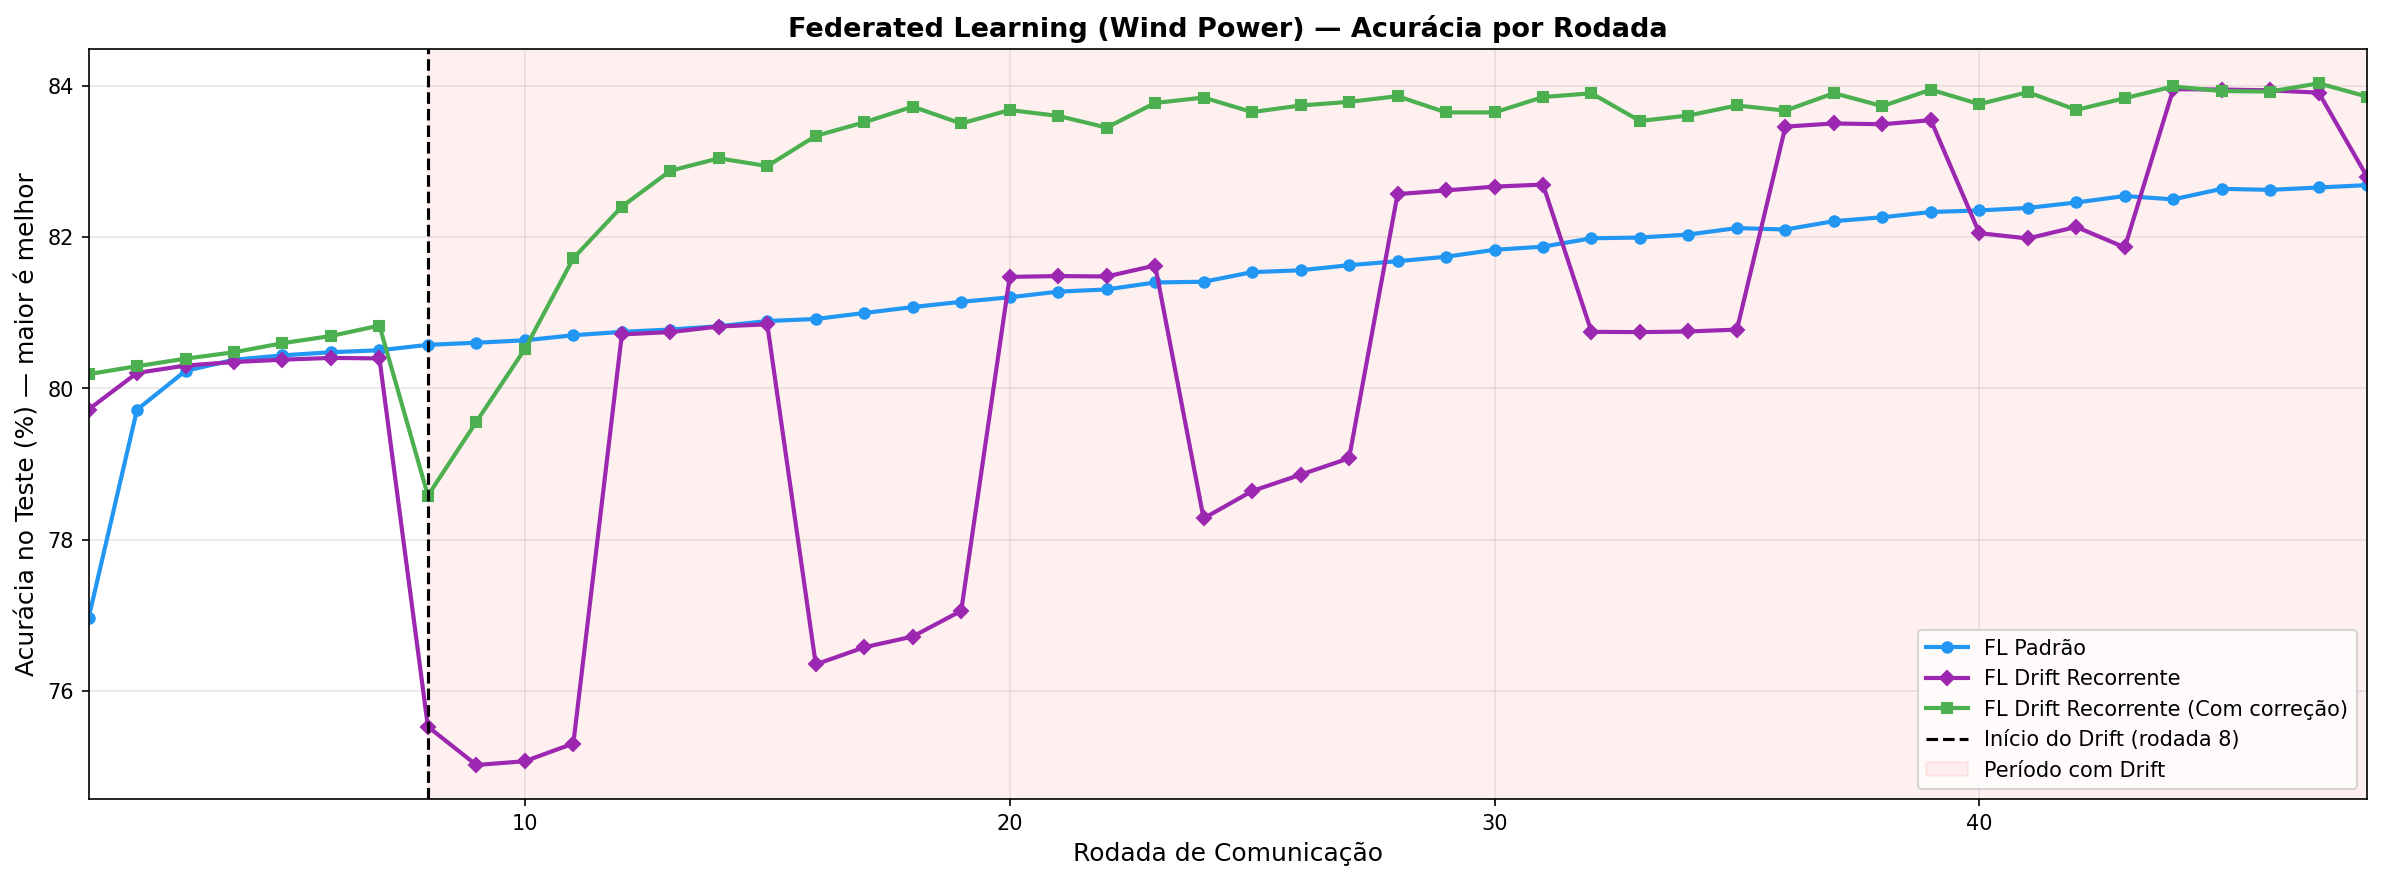
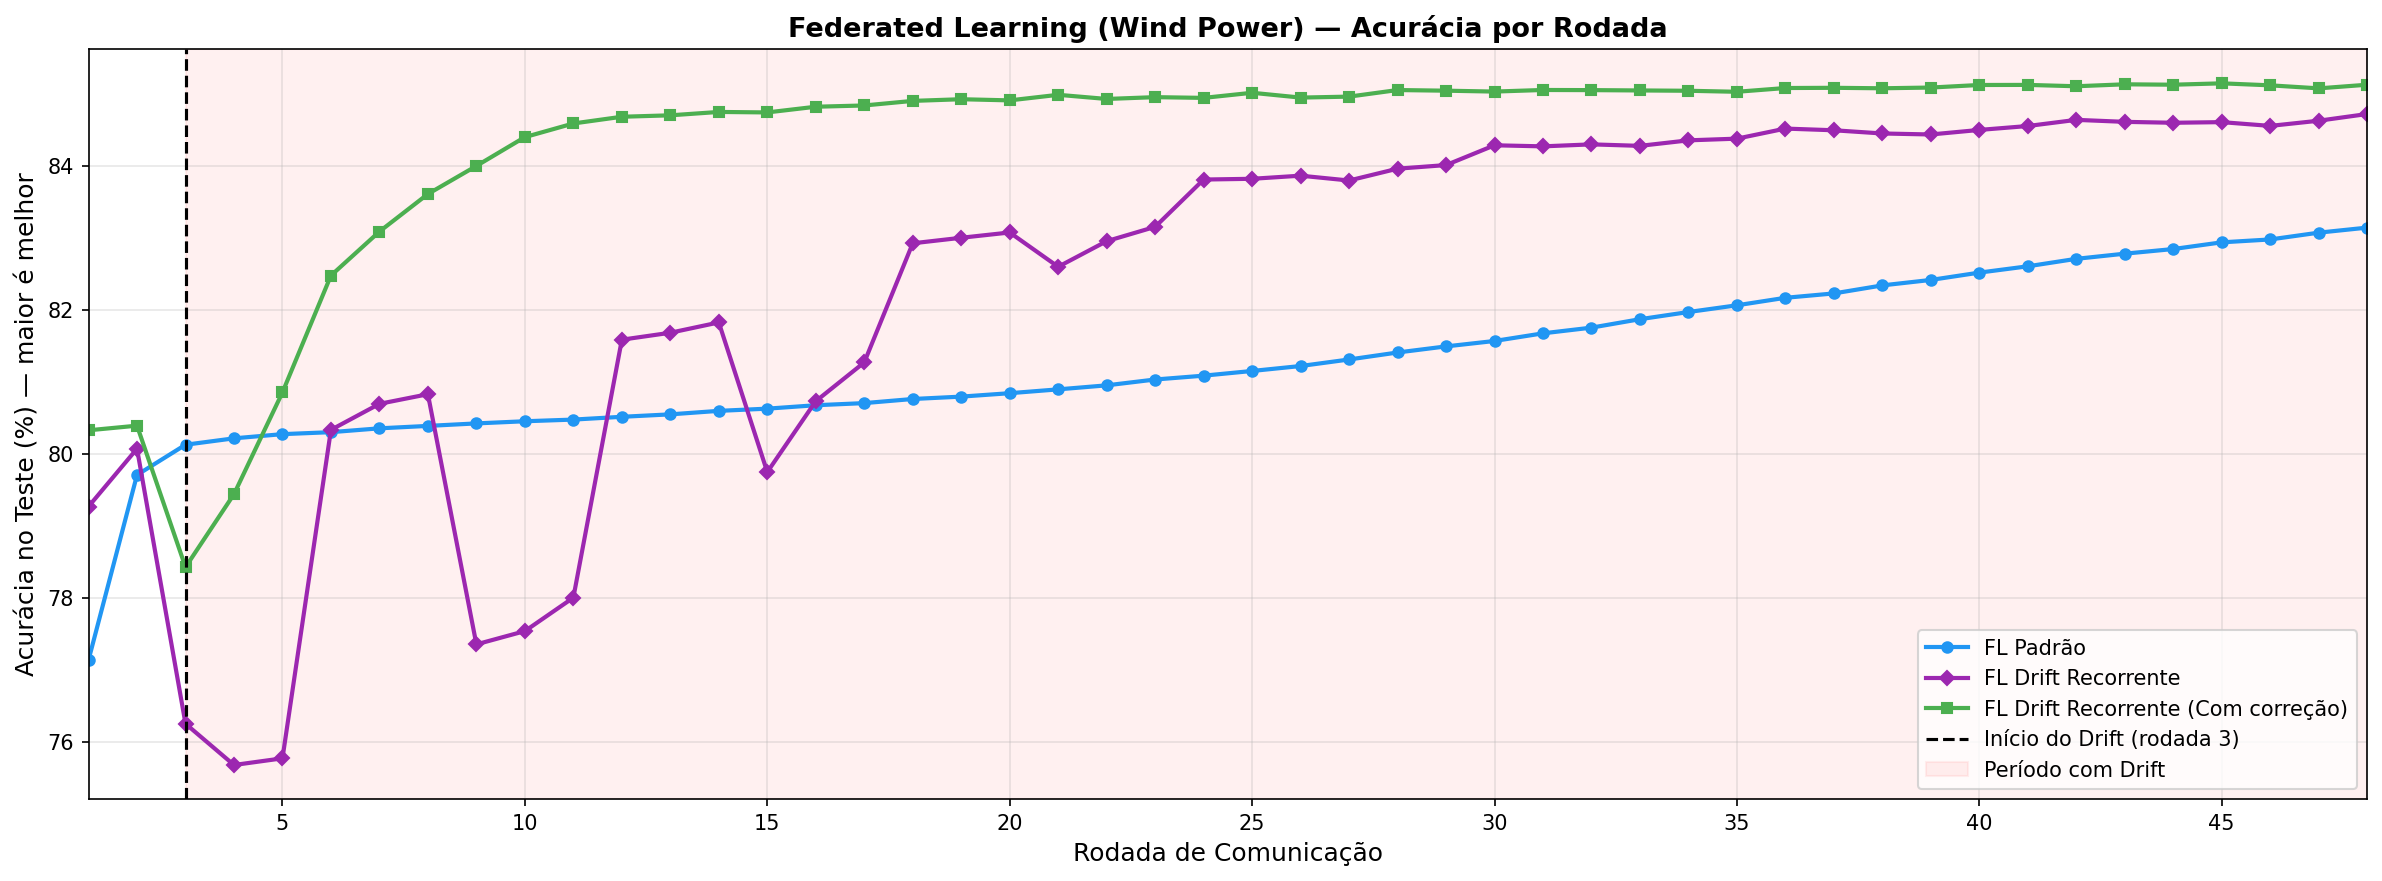
[REFACTOR/FIX] Refatoração e correção de data.

diff --git a/src/data.py b/src/data.py
@@ -39,33 +39,8 @@ from torch.utils.data import TensorDataset
 
 from config import DATA_DIR, FEATURE_DIM, MAX_TRAIN_PER_CLIENT, NUM_CLIENTS, SEED, TRAIN_FRACTION
 
-FEATURE_NAMES = [
-    "temperature_2m",
-    "relativehumidity_2m",
-    "dewpoint_2m",
-    "windspeed_10m",
-    "windspeed_100m",
-    "windgusts_10m",
-    "winddir_10m_sin",
-    "winddir_10m_cos",
-    "winddir_100m_sin",
-    "winddir_100m_cos",
-    "windspeed_100m_cubed",
-    "air_density_proxy",
-    "wind_power_term",
-    "hour_sin",
-    "hour_cos",
-]
+FEATURE_NAMES = "Time,temperature_2m,relativehumidity_2m,dewpoint_2m,windspeed_10m,windspeed_100m,winddirection_10m,winddirection_100m,windgusts_10m".split(",")
 TARGET_NAME = "Power"
-
-_RAW_NUMERIC = [
-    "temperature_2m",
-    "relativehumidity_2m",
-    "dewpoint_2m",
-    "windspeed_10m",
-    "windspeed_100m",
-    "windgusts_10m",
-]
 
 
 @dataclass(frozen=True)
@@ -80,50 +55,18 @@ _feature_max: np.ndarray | None = None
 
 
 def _engineer(df: pd.DataFrame) -> tuple[np.ndarray, np.ndarray]:
-    """Aplica sin/cos nas direções, deriva features físicas, devolve (X bruto, y).
-
-    Features físicas adicionadas (justificativa):
-      • v³ a 100 m — a potência gerada por uma turbina segue P ∝ ½ ρ A v³.
-        Fornecer o termo cúbico explicitamente evita que o MLP tenha que
-        reaprendê-lo do zero a cada concept (verifica-se ganho maior no
-        inverno, regime de ventos altos com cauda pesada).
-      • Densidade do ar (proxy) — a 273,15 K e 1013,25 hPa, ρ ≈ 1 (referência).
-        Inverno frio + RH alta ⇒ ar mais denso ⇒ mais potência para a mesma v.
-        Fórmula: ρ ∝ (T0/(T0+T_C)) · (1 − 0,378 · e_v / P_atm), com
-        e_v = (RH/100) · e_sat(T) e e_sat via aproximação de Magnus.
-      • ρ · v³ — termo central da equação; alimenta o modelo com a forma
-        funcional pronta, deixando-o aprender só o coeficiente C_p·A.
-      • hora sin/cos — ciclo diurno (vento noturno costuma ser mais estável).
+    """Retorna estritamente os dados numéricos brutos originais (X bruto, y),
+    removendo a engenharia de atributos adicionais para manter FEATURE_DIM = 9.
     """
-    deg10 = np.deg2rad(df["winddirection_10m"].to_numpy(dtype=np.float32))
-    deg100 = np.deg2rad(df["winddirection_100m"].to_numpy(dtype=np.float32))
+    # Seleciona apenas os dados originais listados em _RAW_NUMERIC
+    columns = [df[name].to_numpy(dtype=np.float32) for name in FEATURE_NAMES]
 
-    columns = [df[name].to_numpy(dtype=np.float32) for name in _RAW_NUMERIC]
-    columns.extend([np.sin(deg10), np.cos(deg10), np.sin(deg100), np.cos(deg100)])
-
-    # ── Features físicas derivadas ────────────────────────────────────────
-    temperature_c = df["temperature_2m"].to_numpy(dtype=np.float32)
-    rel_humidity = df["relativehumidity_2m"].to_numpy(dtype=np.float32)
-    wind_100m = df["windspeed_100m"].to_numpy(dtype=np.float32)
-
-    wind_100m_cubed = wind_100m**3
-
-    # Magnus: e_sat(T) em hPa, T em °C.
-    e_sat = 6.1078 * np.exp((17.27 * temperature_c) / (temperature_c + 237.3))
-    vapor_pressure = (rel_humidity / 100.0) * e_sat
-    # Densidade adimensional, ancorada em 273,15 K / 1013,25 hPa ≈ 1,0.
-    air_density = (273.15 / (273.15 + temperature_c)) * (1.0 - 0.378 * vapor_pressure / 1013.25)
-    air_density = air_density.astype(np.float32)
-
-    wind_power_term = (air_density * wind_100m_cubed).astype(np.float32)
-
-    hour = df["Time"].dt.hour.to_numpy(dtype=np.float32)
-    hour_rad = 2.0 * np.pi * hour / 24.0
-
-    columns.extend([wind_100m_cubed, air_density, wind_power_term, np.sin(hour_rad), np.cos(hour_rad)])
-
+    # Empilha as colunas originais (X terá o tamanho exato de _RAW_NUMERIC, que é 9)
     X = np.stack(columns, axis=1).astype(np.float32)
+
+    # Extrai o alvo (target)
     y = df[TARGET_NAME].to_numpy(dtype=np.float32).reshape(-1, 1)
+
     return X, y
 
 

diff --git a/src/drift_detector.py b/src/drift_detector.py
@@ -1,32 +1,52 @@
-"""
-drift_detector.py
-─────────────────
-Detector de concept drift por janela móvel.
+class PageHinkleyDetector:
+    """
+    Detector de Concept Drift baseado no Teste Estatístico de Page-Hinkley.
+    Adaptado para monitorizar aumentos no erro contínuo (como o MAE).
+    """
 
-Estratégia: mantém um histórico FIFO das últimas N losses (ou MAEs). Quando a
-janela está cheia, compara o valor mais recente com a média dos demais. Se o
-valor atual ultrapassar `média × limiar`, considera-se que houve drift.
+    def __init__(self, threshold: float = 0.10, delta: float = 0.005, burn_in: int = 3):
+        """
+        Parâmetros:
+        - threshold (lambda): Limite cumulativo. Se a soma dos aumentos de erro passar disto, é drift.
+        - delta: Tolerância mínima. Variações de erro muito pequenas não são somadas.
+        - burn_in: Número de rodadas iniciais (meses) ignoradas para a média estabilizar.
+        """
+        self.threshold = threshold
+        self.delta = delta
+        self.burn_in = burn_in
 
-Detector puramente observacional: apenas sinaliza, não age sobre o modelo.
-"""
+        # Variáveis de estado da memória do Page-Hinkley
+        self.n_samples = 0
+        self.cumulative_mean = 0.0
+        self.cumulative_sum = 0.0
 
-import numpy as np
+    def update_and_check(self, loss_atual: float) -> bool:
+        self.n_samples += 1
 
+        # 1. Atualiza a média histórica de forma incremental
+        self.cumulative_mean += (loss_atual - self.cumulative_mean) / self.n_samples
 
-class DetectorDeDrift:
-    def __init__(self, tamanho_janela: int = 5, limiar_alerta: float = 1.3):
-        self.tamanho_janela = tamanho_janela
-        self.limiar_alerta = limiar_alerta
-        self.historico_loss: list[float] = []
+        # Ignora as primeiras rodadas enquanto o modelo ainda está a aprender a média base
+        if self.n_samples < self.burn_in:
+            return False
 
-    def atualizar_e_checar(self, loss_atual: float) -> bool:
-        self.historico_loss.append(float(loss_atual))
+        # 2. Equação do Page-Hinkley: m_t = max(0, m_{t-1} + (x_t - média - delta))
+        # Queremos detetar se o erro está a AUMENTAR, logo medimos a diferença positiva.
+        higher = (loss_atual - self.cumulative_mean) - self.delta
 
-        if len(self.historico_loss) > self.tamanho_janela:
-            self.historico_loss.pop(0)
+        # Acumula o valor. Se o erro descer, a soma estabiliza em zero (max 0).
+        self.cumulative_sum = max(0.0, self.cumulative_sum + higher)
 
-        if len(self.historico_loss) == self.tamanho_janela:
-            media_passada = float(np.mean(self.historico_loss[:-1]))
-            if loss_atual > media_passada * self.limiar_alerta:
-                return True
+        # 3. Verifica se a soma cumulativa ultrapassou o limiar de alarme
+        if self.cumulative_sum > self.threshold:
+            # Reinicia os contadores para recomeçar a análise após o drift
+            self._reset()
+            return True
+
         return False
+
+    def _reset(self):
+        """Limpa a memória do detector para se adaptar à nova realidade climática."""
+        self.n_samples = 0
+        self.cumulative_mean = 0.0
+        self.cumulative_sum = 0.0

diff --git a/src/config.py b/src/config.py
@@ -1,11 +1,4 @@
-"""
-config.py
-─────────
-Hiperparâmetros e constantes globais do experimento.
-"""
-
 import os
-
 import torch
 
 # ── Reprodutibilidade ────────────────────────────────────────────────────────
@@ -18,21 +11,22 @@ LOCAL_EPOCHS = 5
 BATCH_SIZE = 32
 LEARNING_RATE = 0.01
 
-# ── Concept Drift ────────────────────────────────────────────────────────────
-DRIFT_ROUND = 8  # rodada em que o drift começa
-CYCLE_LEN = 4  # rodadas por fase no drift recorrente
-# Detector por janela móvel: dispara quando MAE_atual > média(janela) × limiar.
-DRIFT_WINDOW_SIZE = 5
-DRIFT_THRESHOLD = 1.3
+# ── Drift Detector ────────────────────────────────────────────────────────────
+DRIFT_THRESHOLD = 0.3
+DRIFT_BURN_IN = 3
+DRIFT_DELTA = 0.01
 
-# SeasonalReplayBuffer: amostras máximas guardadas por estação, em cada cliente.
-REPLAY_BUFFER_SIZE = 500
+# ── Drift Corrector ───────────────────────────────────────────────────────────
+DRIFT_BUFFER_PER_SEASON = 500
+
+# ── Drift General ─────────────────────────────────────────────────────────────
+DRIFT_ROUND = 3
+CYCLE_LEN = 3
+
 # ── Dataset ──────────────────────────────────────────────────────────────────
 DATA_DIR = os.path.join(os.path.dirname(os.path.dirname(os.path.abspath(__file__))), "data")
-# 6 numéricas brutas + 4 sin/cos de direção (10m e 100m) + 5 derivadas físicas
-# (v³ a 100m, densidade do ar, ρ·v³, hora sin/cos).
-FEATURE_DIM = 15
-TRAIN_FRACTION = 0.8  # split cronológico por janela sazonal
+FEATURE_DIM = 9
+TRAIN_FRACTION = 0.7  # split cronológico por janela sazonal
 MAX_TRAIN_PER_CLIENT = 2000  # subsample por cliente/estação (None = sem cap)
 
 # Eixos sazonais para o concept drift (hemisfério norte; o dataset é local).

diff --git a/src/scenarios.py b/src/scenarios.py
@@ -17,20 +17,21 @@ sinalizar no log quando uma queda de desempenho é detectada.
 from config import (
     CYCLE_LEN,
     DEVICE,
+    DRIFT_BUFFER_PER_SEASON,
+    DRIFT_BURN_IN,
+    DRIFT_DELTA,
     DRIFT_ROUND,
     DRIFT_THRESHOLD,
-    DRIFT_WINDOW_SIZE,
     NUM_CLIENTS,
     NUM_ROUNDS,
-    REPLAY_BUFFER_SIZE,
     SUMMER_MONTHS,
     WINTER_MONTHS,
 )
 from data import build_seasonal_pools
-from drift_detector import DetectorDeDrift
+from drift_detector import PageHinkleyDetector
 from federated_service import FederatedService
 from model import WindPowerMLP
-from seasonal_replay_buffer import SeasonalReplayBuffer
+from drift_corrector import SeasonalReplayBuffer
 from torch.utils.data import ConcatDataset
 
 # ── Preparação dos pools de dados ────────────────────────────────────────────
@@ -126,8 +127,8 @@ def run_scenario(name: str, get_train_fn, get_test_fn, use_replay: bool = False)
     """
     model = WindPowerMLP().to(DEVICE)
     mae_hist = []
-    detector = DetectorDeDrift(tamanho_janela=DRIFT_WINDOW_SIZE, limiar_alerta=DRIFT_THRESHOLD)
-    replay_buffers = [SeasonalReplayBuffer(REPLAY_BUFFER_SIZE) for _ in range(NUM_CLIENTS)] if use_replay else None
+    drift_detector = PageHinkleyDetector(threshold=DRIFT_THRESHOLD, delta=DRIFT_DELTA, burn_in=DRIFT_BURN_IN)
+    replay_buffers = [SeasonalReplayBuffer(DRIFT_BUFFER_PER_SEASON) for _ in range(NUM_CLIENTS)] if use_replay else None
     prev_season: str | None = None
 
     print(f"\n{'═' * 64}")
@@ -163,7 +164,7 @@ def run_scenario(name: str, get_train_fn, get_test_fn, use_replay: bool = False)
         mae_hist.append(mae)
 
         note = _drift_note(name, rnd)
-        if detector.atualizar_e_checar(mae):
+        if drift_detector.update_and_check(mae):
             alerta = f"[ALERTA] Concept Drift detectado na rodada {rnd}!"
             note = f"{note} | {alerta}" if note else alerta
         print(f"  {rnd:>7d}  │  {mae:>6.2f}%  │  {note}")

diff --git a/src/visualization.py b/src/visualization.py
@@ -5,6 +5,7 @@ Geração do gráfico e tabela de resumo final (regressão de potência eólica)
 A métrica visual exibida é a Acurácia = 100 − MAE (em p.p. de Power).
 """
 
+from matplotlib.ticker import MultipleLocator
 import numpy as np
 import matplotlib.pyplot as plt
 
@@ -69,6 +70,7 @@ def plot_results(histories: dict, drift_round: int = DRIFT_ROUND) -> None:
     ax.legend(fontsize=10)
     ax.grid(True, alpha=0.3)
     ax.set_xlim(1, NUM_ROUNDS)
+    ax.xaxis.set_major_locator(MultipleLocator(5))
 
     plt.tight_layout()
     plt.savefig(OUTPUT_FILE, dpi=150, bbox_inches="tight")

diff --git a/data/info-dataset-pt.md b/data/info-dataset-pt.md
@@ -1,0 +1,19 @@
+Time: Data/Hora de quando a leitura ocorreu
+
+temperature_2m -  Graus Fahrenheit a 2 metros acima da superfície
+
+relativehumidity_2m - Umidade relativa (em porcentagem) a 2 metros acima da superfície
+
+dewpoint_2m - Dew Point em graus Fahrenheit a 2 metros acima da superfície
+
+windspeed_10m - Velocidade do vento em metros por segundo a 10 metros acima da superfície.
+
+windspeed_100m - Velocidade do vento em metros por segundo a 100 metros acima da superfície.
+
+winddirection_10m - Direção do vento em graus (0 - 360) a 10 metros acima da superfície.
+
+winddirection_100m - Direção do vento em graus (0 - 360) a 100 metros acima da superfície.
+
+windgusts_10m - Rajadas de vento em metros por segundo a 100 metros acima da superfície.
+
+Power: Saída da turbina, normalizada para ficar entre 0 e 1 (ou seja, uma porcentagem da capacidade máxima de saída)